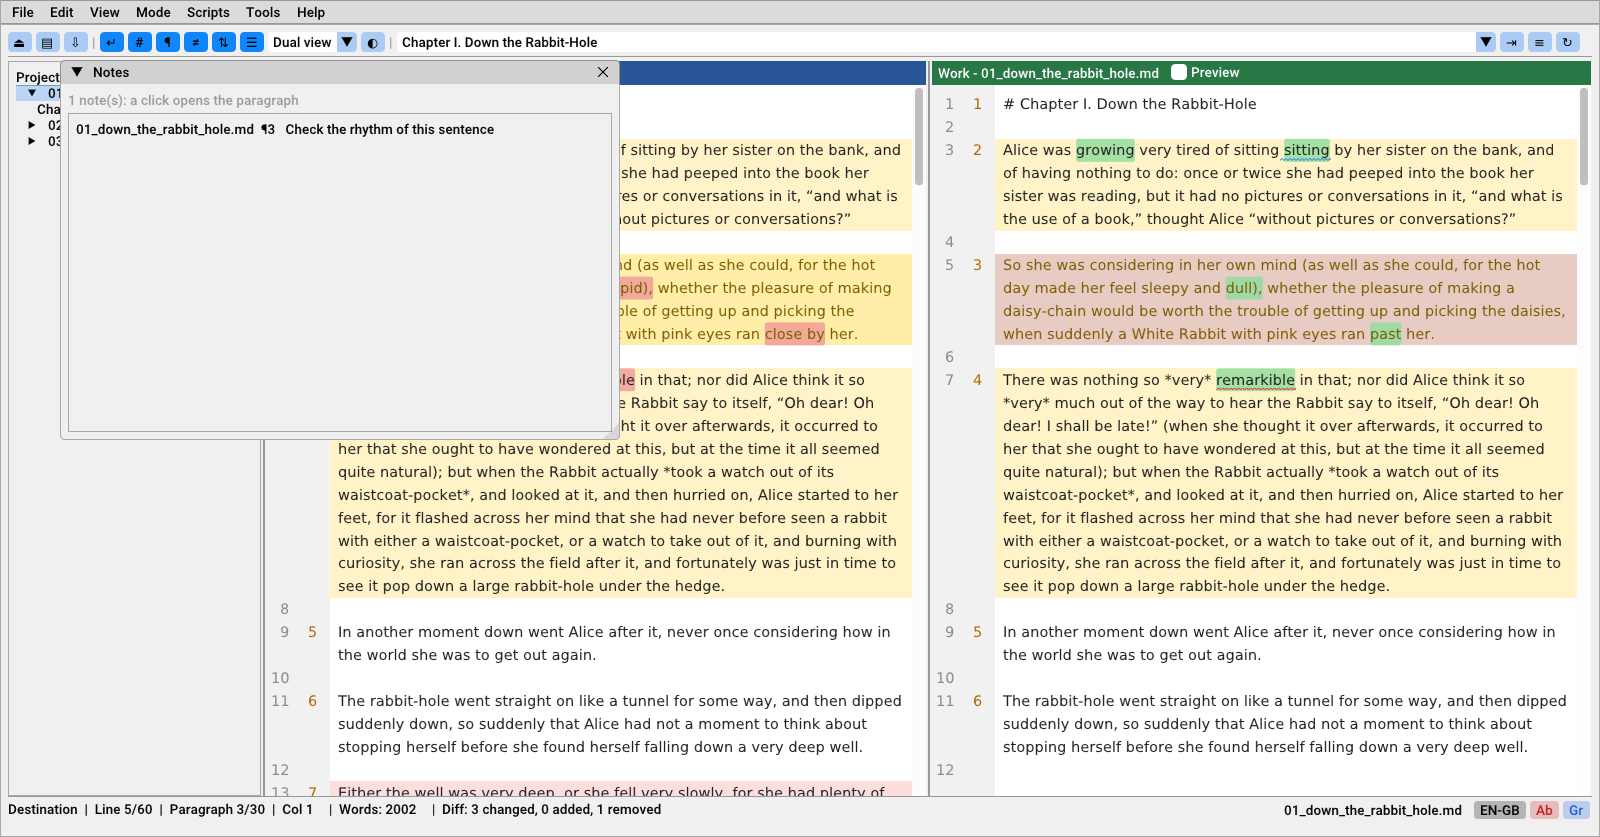
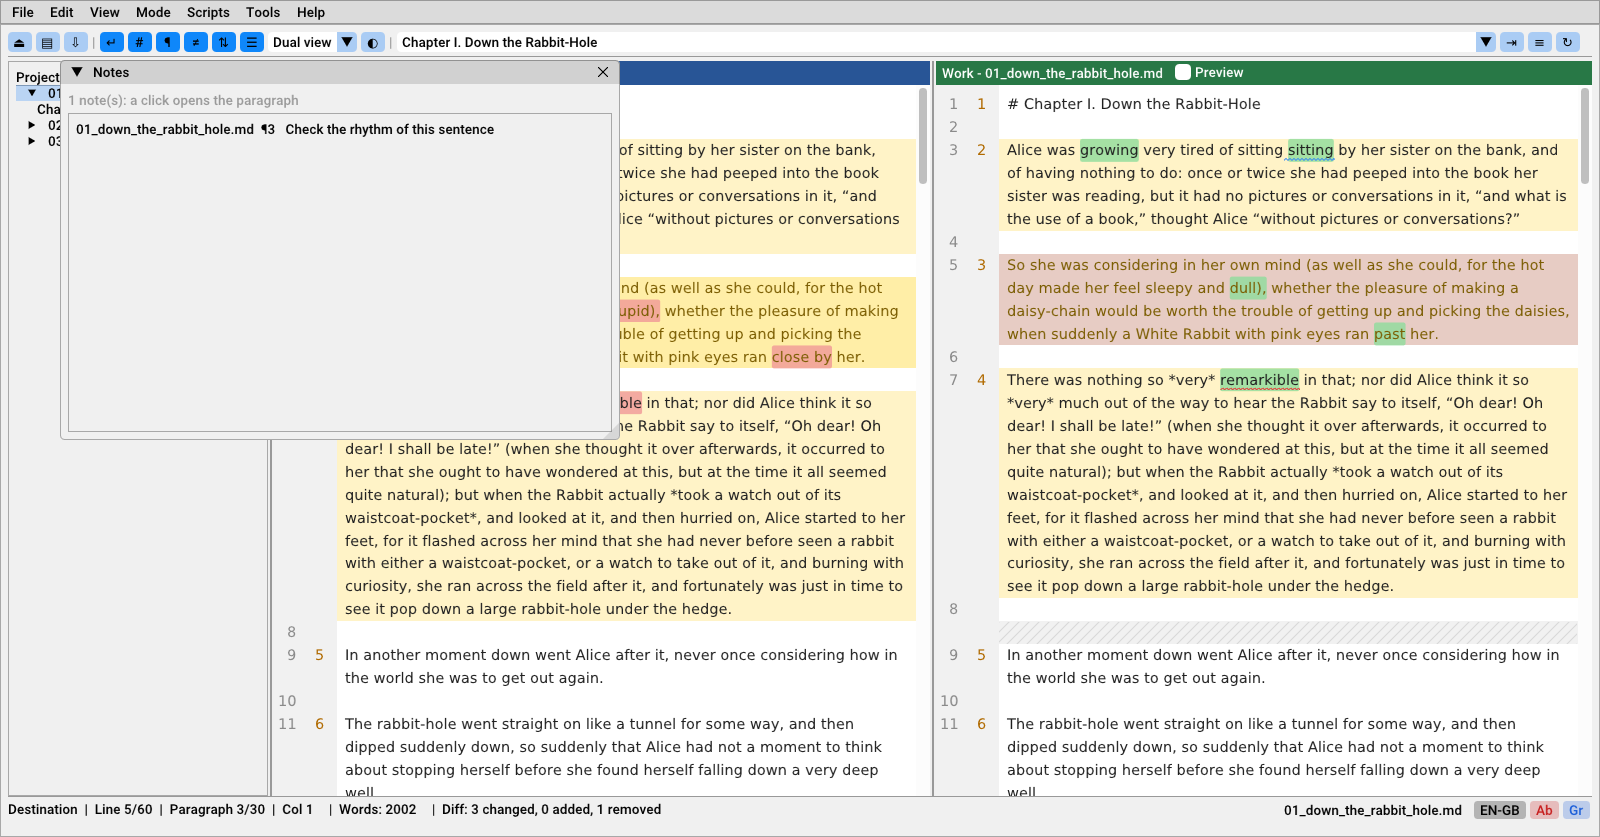
docs: retake the screenshots of the manual (two in the dark theme), add the language menu and the Python notice; spelling: a language without a country takes the usual dictionary

Changed region(s): [[0.1562, 0.0621, 1.0, 0.963], [0.625, 0.7455, 0.9688, 0.9319]]

diff --git a/binote-app/src/analysis/spell.cpp b/binote-app/src/analysis/spell.cpp
@@ -79,9 +79,28 @@ bool Spell::load(const std::string& code)
 	_personal.clear();
 	_ignored.clear();
 	_code = code;
+	// A code without a country ("en", "es") takes the dictionary of a country: the usual one, else the first found
+	std::string file = code;
+	if (code.find('_') == std::string::npos)
+	{
+		const std::vector<std::string> all = languages();
+		if (std::find(all.begin(), all.end(), code) == all.end())
+		{
+			static const char* const usual[][2] = { { "en", "en_US" }, { "es", "es_ES" }, { "pt", "pt_BR" }, { "de", "de_DE" }, { "it", "it_IT" } };
+			std::string chosen;
+			for (const auto& u : usual)
+				if (code == u[0] && std::find(all.begin(), all.end(), u[1]) != all.end())
+					chosen = u[1];
+			for (size_t i = 0; chosen.empty() && i < all.size(); i++)
+				if (all[i].compare(0, code.size() + 1, code + "_") == 0)
+					chosen = all[i];
+			if (!chosen.empty())
+				file = chosen;
+		}
+	}
 	for (const std::string& dir : dictionary_folders())
 	{
-		const std::string dic = util::combine(dir, code + ".dic"), aff = util::combine(dir, code + ".aff");
+		const std::string dic = util::combine(dir, file + ".dic"), aff = util::combine(dir, file + ".aff");
 		if (!util::exists(dic) || !util::exists(aff))
 			continue;
 		try

diff --git a/docs/MANUAL.md b/docs/MANUAL.md
@@ -92,6 +92,10 @@ The shortcuts are in [Keyboard shortcuts](#keyboard-shortcuts).
 - **Tools > Save when changing chapter** saves the work by itself when you go to another chapter (otherwise Binote asks).
 - The language of the text (dictionary, typography, grammar) is set in **Tools > Language of the project text**, or with the language button at the right of the status bar. It is not the language of the interface (**View > Language**).
 
+  ![The language menu](images/language-menu.png)
+
+  Languages with several countries are submenus, named by country. **Other dictionaries** lists the ones of LibreOffice and of the system.
+
 ## Rewriting
 
 Type in the work. The original cannot be modified, except in the *Original* view (see below).
@@ -214,6 +218,8 @@ A **variant** of a language only holds what differs: `es_ar.py` (Argentine Spani
 The **Scripts** menu lists the scripts by category (*Refresh the list* reads the folders again, *Open the scripts folder* shows yours). A script works on the selection, a paragraph, a section, a file or the whole project: the *Apply to* choice is in its dialog box.
 
 Python is optional and is not installed with Binote. When it is missing, a window says so, with a button to [python.org/downloads](https://www.python.org/downloads/): at the first start, then once per session when you open the **Scripts** menu or switch the grammar checker on. Tick *Do not remind me again* to stop it. Install Python 3.12 or later with *Add python.exe to PATH* ticked, then restart Binote; without Python the grammar checker uses a smaller set of rules.
+
+![The Python notice](images/python-notice.png)
 
 ![A script dialog box](images/script-dialog.png)
 

diff --git a/docs/TESTING.md b/docs/TESTING.md
@@ -100,6 +100,12 @@ binote-app\build\binote.exe --script test.txt --width 1280 --height 800
 
 The images in `docs/images` are taken with `shot` on the sample project `docs/sample` (an excerpt of *Alice's Adventures in Wonderland*, public domain), with the interface in English. Open the window with its command (`problems`, `stats`, `history`...), `wait` a few frames, `shot`.
 
+Take them from a fresh copy of `docs/sample` each time (some scripts change the destination), with `APPDATA` pointing to an empty folder so that your preferences are not used or changed, at `--width 1600 --height 837`, and the project language set to `en_GB` in the copy (`"Language": "en_GB"` in its `binote.json`) so that the spelling is on.
+
+## Testing the typography engine
+
+`typography-engine/tests/typo_test.cpp` checks the profiles with the cases of `typography-engine/tests/cases/*.txt` (fixing, typing, the opposite conversion): `typo_test typography-engine/profiles typography-engine/tests/cases`, or `ctest` with CMake. It prints the number of checks and failures.
+
 ## Testing the components
 
 `imgui-md` and `imgui-prose` have a demo each (`demo/main.cpp`, built by their own CMake file with the option `IMGUI_MD_BUILD_DEMO` / `IMGUI_PROSE_BUILD_DEMO`): they are tested through their demos, not through Binote.
